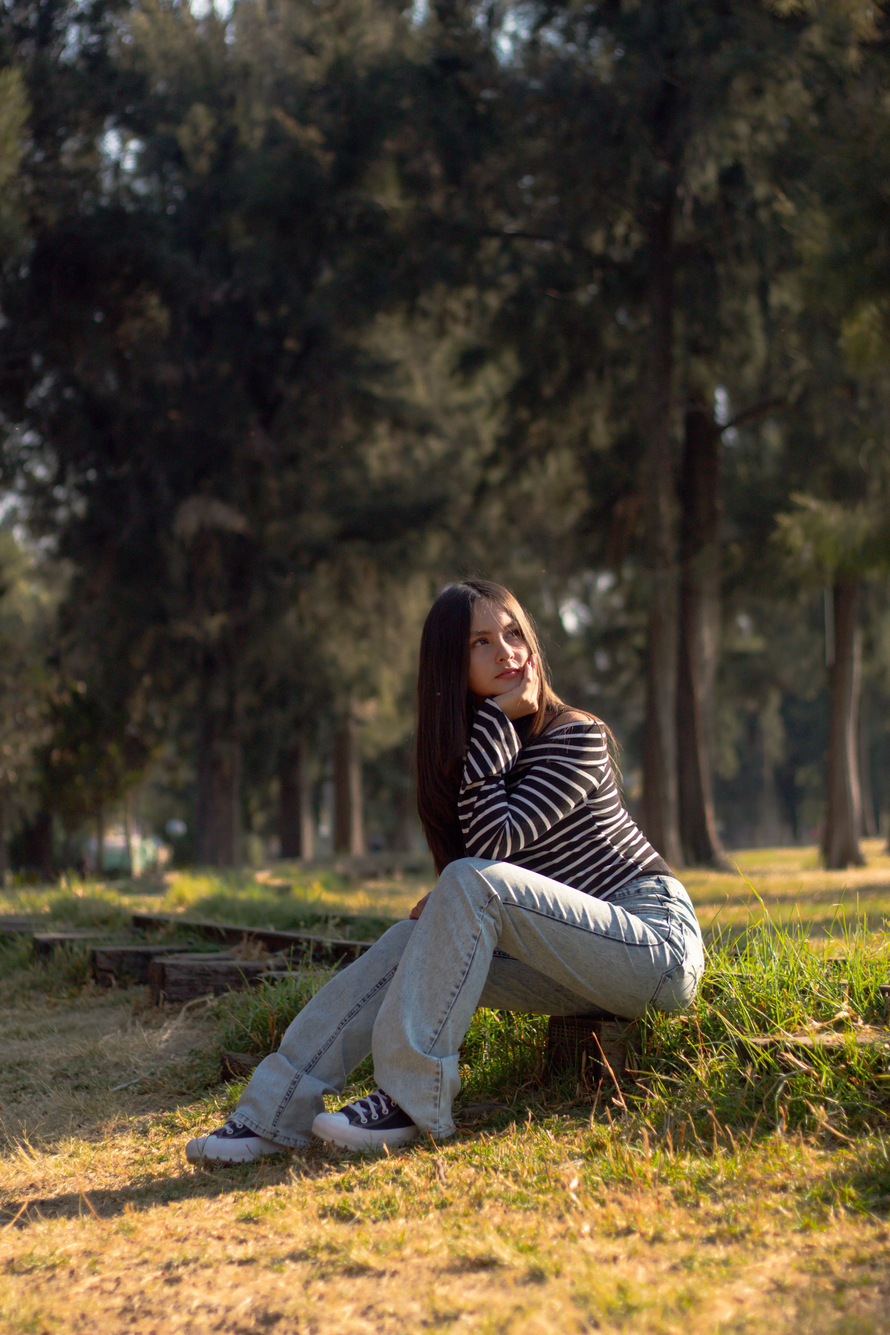
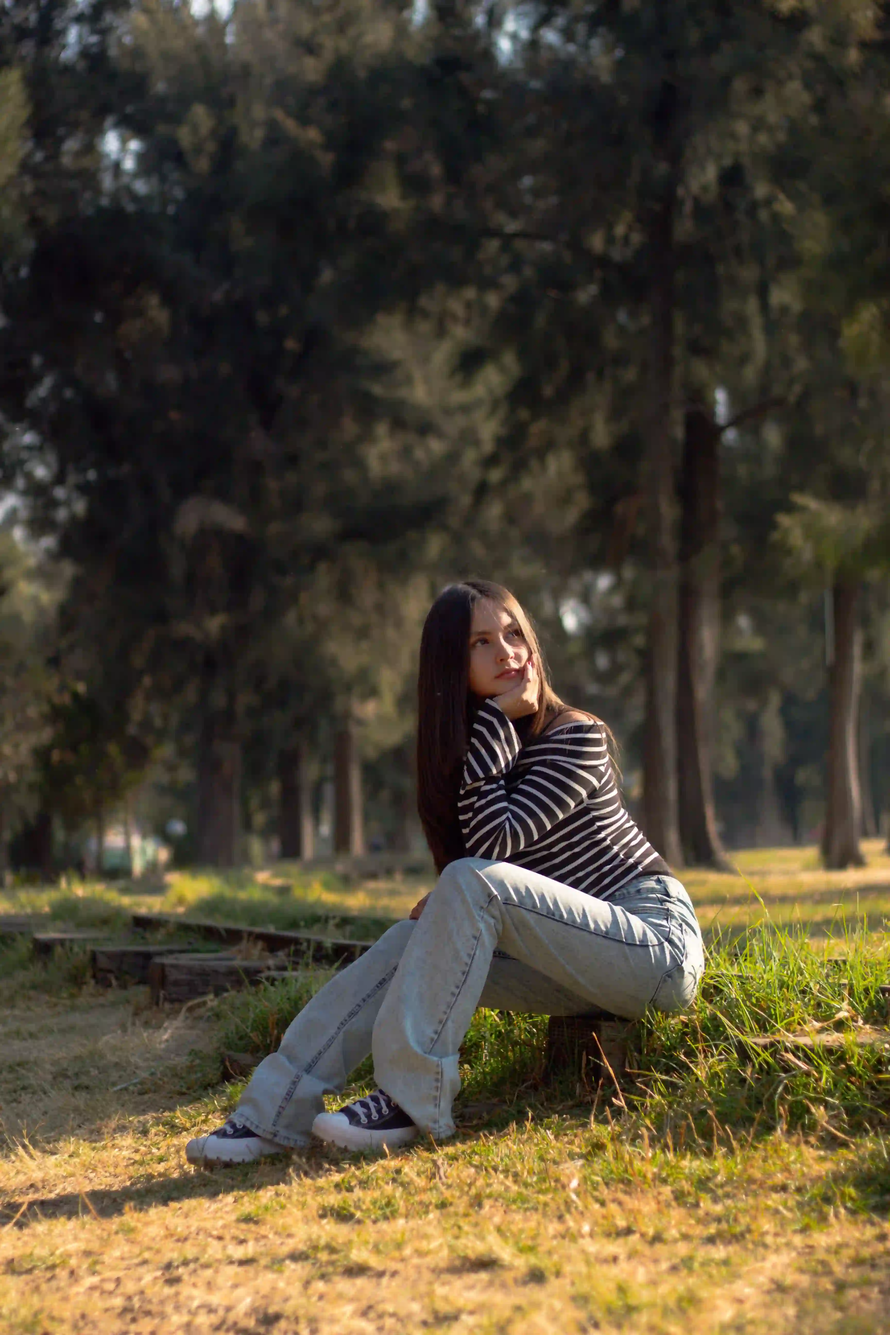
"photo resizing"

diff --git a/index.html b/index.html
@@ -153,25 +153,25 @@
           <button class="carousel-btn prev">&#10094;</button>
           <div class="carousel-items">
             <div class="active">
-              <img src="img/her10.jpg" alt="pending" />
+              <img src="img/her10.webp" alt="pending" />
             </div>
             <div>
-              <img src="img/her3.jpg" alt="pending" />
+              <img src="img/her3.webp" alt="pending" />
             </div>
             <div>
-              <img src="img/her4.jpg" alt="pending" />
+              <img src="img/her4.webp" alt="pending" />
             </div>
             <div>
-              <img src="img/her5.jpg" alt="pending" />
+              <img src="img/her5.webp" alt="pending" />
             </div>
             <div>
-              <img src="img/her6.jpg" alt="pending" />
+              <img src="img/her6.webp" alt="pending" />
             </div>
             <div>
-              <img src="img/her7.jpg" alt="pending" />
+              <img src="img/her7.webp" alt="pending" />
             </div>
             <div>
-              <img src="img/her1.jpg" alt="pending" />
+              <img src="img/her1.webp" alt="pending" />
             </div>
           </div>
           <button class="carousel-btn next">&#10095;</button>
